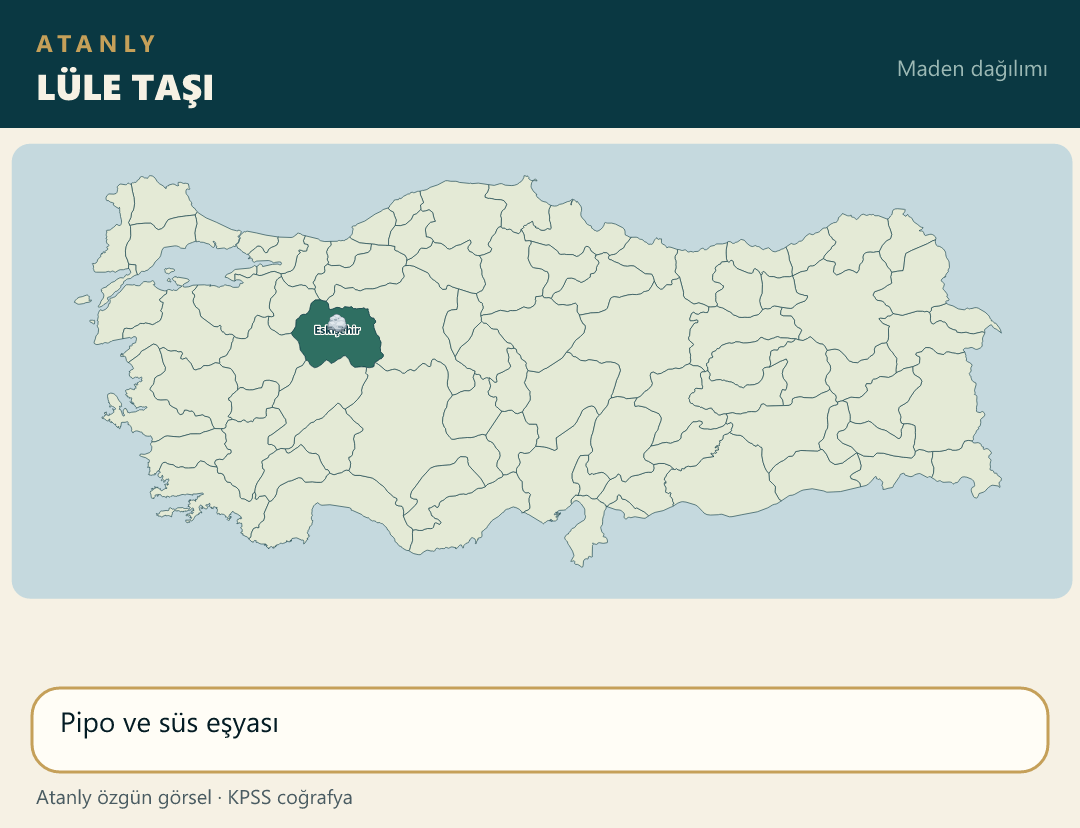
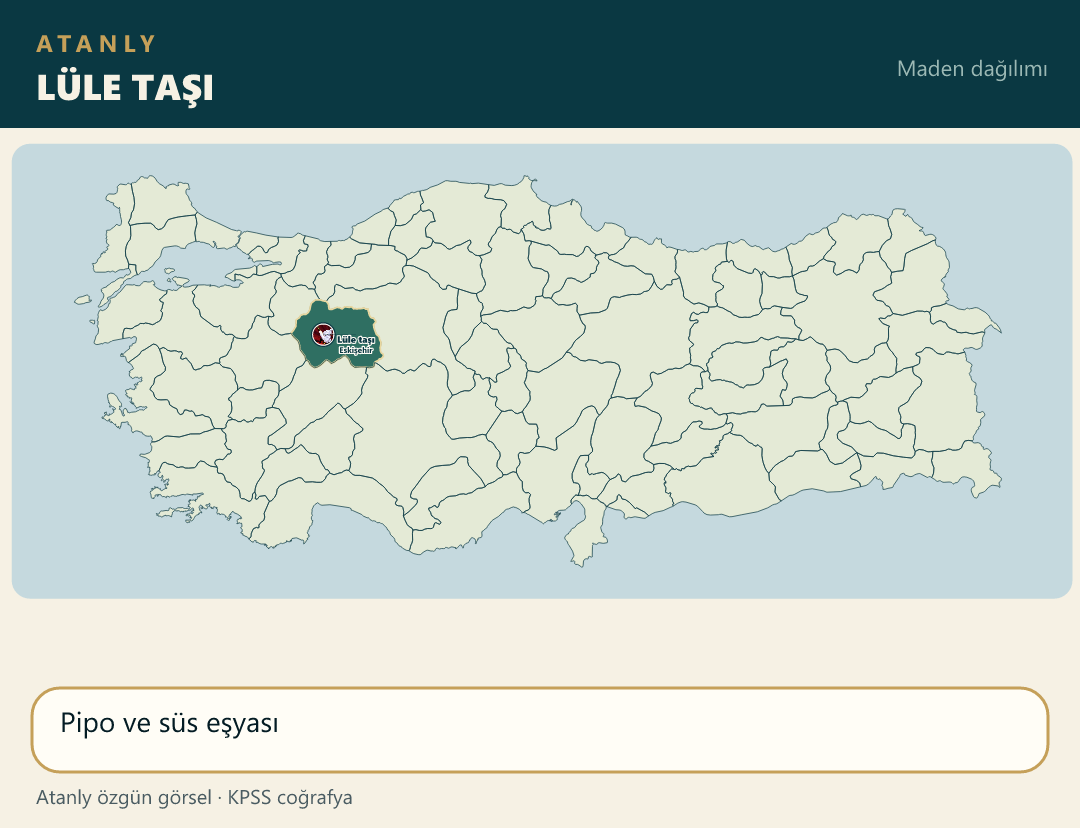
Place the meerschaum pipe photo on the Eskişehir land-center pin.

Changed region(s): [[0.275, 0.3623, 0.3667, 0.4529], [0.825, 0.4227, 0.8556, 0.4529], [0.7639, 0.4831, 0.7944, 0.5133]]

diff --git a/scripts/build-atanly-maps.js b/scripts/build-atanly-maps.js
@@ -487,7 +487,7 @@ function topicIcon(file) {
         madenfosfat: "phosphate", madenasbest: "asbestos", madentrona: "salt", madenaltin: "gold",
         madenuranyum: "uranium", madentoryum: "uranium", madenciva: "mercury", madentuz: "salt",
         madenperlit: "rock", madenpomza: "rock", madenkukurt: "sulfur", madenmanganez: "iron",
-        madenkursun: "lead", madenoltu: "jet", madenlule: "rock", madenvolfram: "tungsten",
+        madenkursun: "lead", madenoltu: "jet", madenlule: "lule", madenvolfram: "tungsten",
         madenfeldspat: "feldspar", madenzimpara: "emery", madenetiket: "ore"
     };
     return T[k] || null;
@@ -1091,7 +1091,10 @@ function main() {
         { file: "maden_oltu.png", title: "OLTU TAŞI", iller: ["Erzurum"],
             yazilar: ["Oltu"],
             facts: ["Süs eşyası ve takı", "Erzurum–Oltu"] },
-        { file: "maden_lule.png", title: "LÜLE TAŞI", iller: ["Eskişehir"],
+        { file: "maden_lule.png", title: "LÜLE TAŞI", urun: "Lüle taşı",
+            noktalar: [
+                { il: "Eskişehir", ldx: 32, ldy: 8 }
+            ],
             facts: ["Pipo ve süs eşyası"] },
         { file: "maden_volfram.png", title: "VOLFRAM (TUNGSTEN)", iller: ["Bursa"],
             yazilar: ["Uludağ"],

diff --git a/notlar/cografya-21-not.js b/notlar/cografya-21-not.js
@@ -2,7 +2,7 @@
 (function () {
     function harita(src, alt) {
         return '<div class="mt-4 overflow-hidden rounded-xl border border-blue-200 dark:border-blue-700/50 bg-white dark:bg-slate-800 p-2">' +
-            '<img src="./src/img/' + src + '?v=27" alt="' + alt + ' Haritası" class="w-full h-auto rounded-lg object-contain" loading="lazy">' +
+            '<img src="./src/img/' + src + '?v=28" alt="' + alt + ' Haritası" class="w-full h-auto rounded-lg object-contain" loading="lazy">' +
             "</div>";
     }
 

diff --git a/index.html b/index.html
@@ -119,7 +119,7 @@
     <script src="notlar/cografya-18-not.js?v=17"></script>
     <script src="notlar/cografya-19-not.js?v=25"></script>
     <script src="notlar/cografya-20-not.js?v=1"></script>
-    <script src="notlar/cografya-21-not.js?v=20"></script>
+    <script src="notlar/cografya-21-not.js?v=21"></script>
     <script src="notlar/cografya-22-not.js?v=1"></script>
     <script src="notlar/cografya-23-not.js?v=1"></script>
     <script src="notlar/cografya-24-not.js?v=1"></script>
